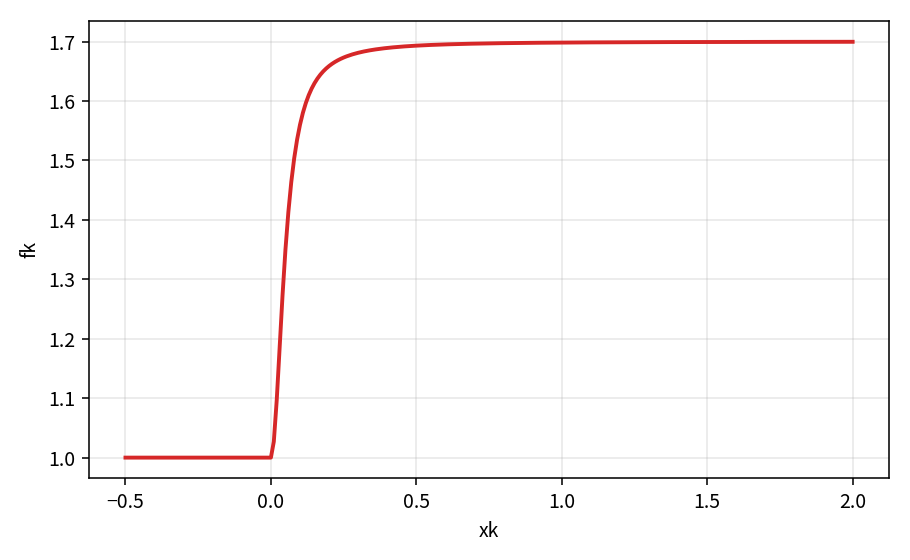
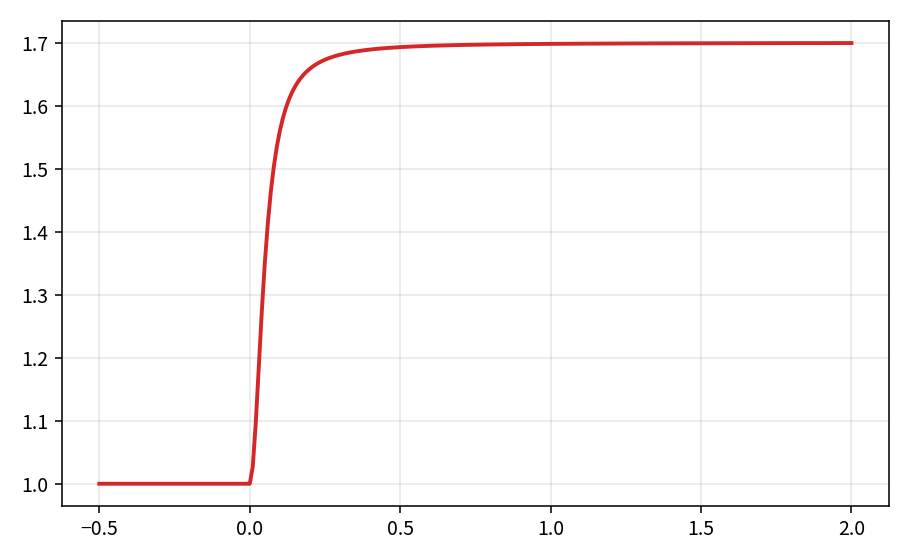
test(turb): Wilcox fk(xk) intermediate theory curve verification

diff --git a/tools/verification/curve_catalog.py b/tools/verification/curve_catalog.py
@@ -392,6 +392,7 @@ def list_theory_entries() -> list[TheoryEntry]:
             proves="Omega source piece APIs where extracted.",
             does_not_prove="Full SST residual on a case.",
         ),
+
         # ========== Wilcox ==========
         TheoryEntry(
             id="wilcox_fk_xk",
@@ -412,12 +413,11 @@ def list_theory_entries() -> list[TheoryEntry]:
                 r"(1+680 x_k^{2})/(1+400 x_k^{2})\ (x_k>0)"
             ),
             principle=(
-                "Wilcox-style beta-star is modulated by fk(xk) based on "
-                "the cross-diffusion sense of the k-omega gradients."
+                "Wilcox beta-star is modulated by fk(xk) from the k-omega "
+                "cross-diffusion sense."
             ),
             background=(
-                "Used on Wilcox / EASM paths in TurbCom when forming f_betas. "
-                "SST uses F1 blend; this curve is the Wilcox piece."
+                "Used on Wilcox/EASM paths in TurbCom. SST uses F1; this is the Wilcox piece."
             ),
             references=(
                 "Wilcox turbulence modeling notes.",
@@ -442,10 +442,10 @@ def list_theory_entries() -> list[TheoryEntry]:
             proves="fk(xk) closed form vs WilcoxFkFromXk sample grid.",
             does_not_prove="Full k-omega residual or SST F1 path.",
         ),
+
         # ========== NS / LUSGS ==========
         TheoryEntry(
             id="ns_lusgs_viscous_spectrum",
-
             family="mean-flow",
             genus="NS-LUSGS",
             section="implicit / viscous spectrum",

diff --git a/tests/solver/turb_wilcox_fbeta_test.cpp b/tests/solver/turb_wilcox_fbeta_test.cpp
@@ -36,8 +36,7 @@ TEST( WilcoxFbeta, Fw1998ApproachesSevenEighths )
     EXPECT_NEAR( WilcoxFw1998( 1.0e6 ), 0.875, 1.0e-6 );
 }
 
-// Intermediate: fk(xk) on a sample grid vs closed form.
-// Proves WilcoxFkFromXk; does not prove full omega-equation residual.
+// Intermediate: fk(xk) vs closed form on a sample grid.
 TEST( WilcoxFbeta, FkXkCurveMatchesClosedForm )
 {
     const Real samples[] = { -0.5, -0.1, 0.0, 0.05, 0.1, 0.2, 0.5, 1.0 };
